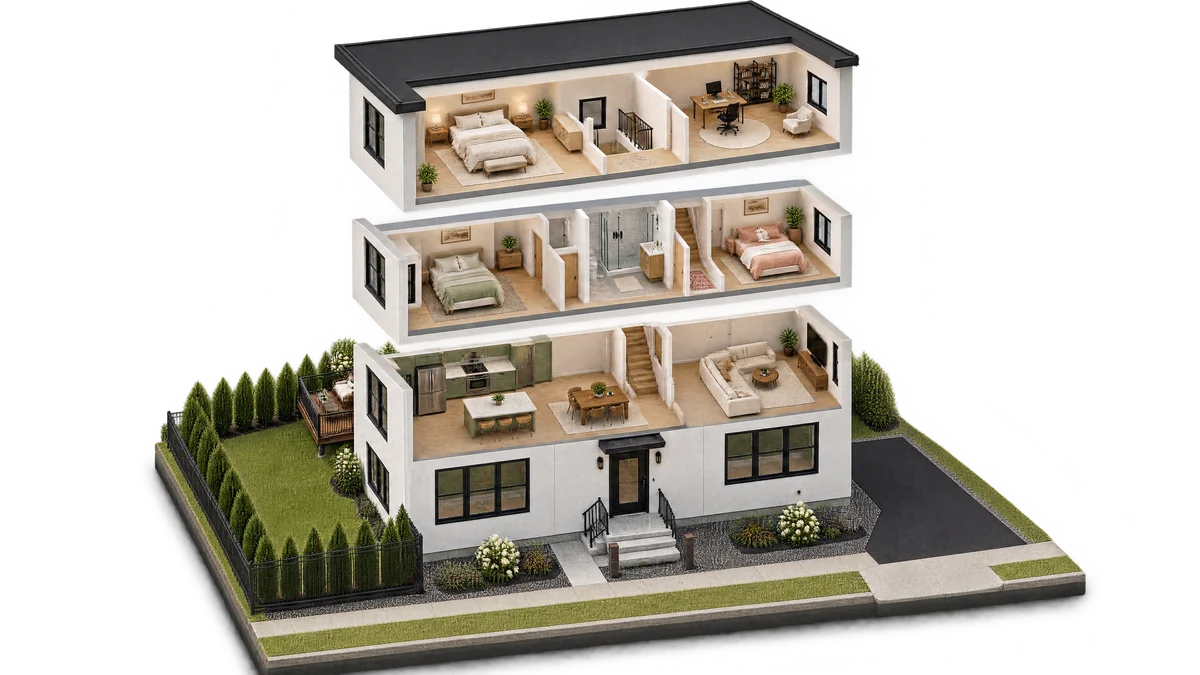
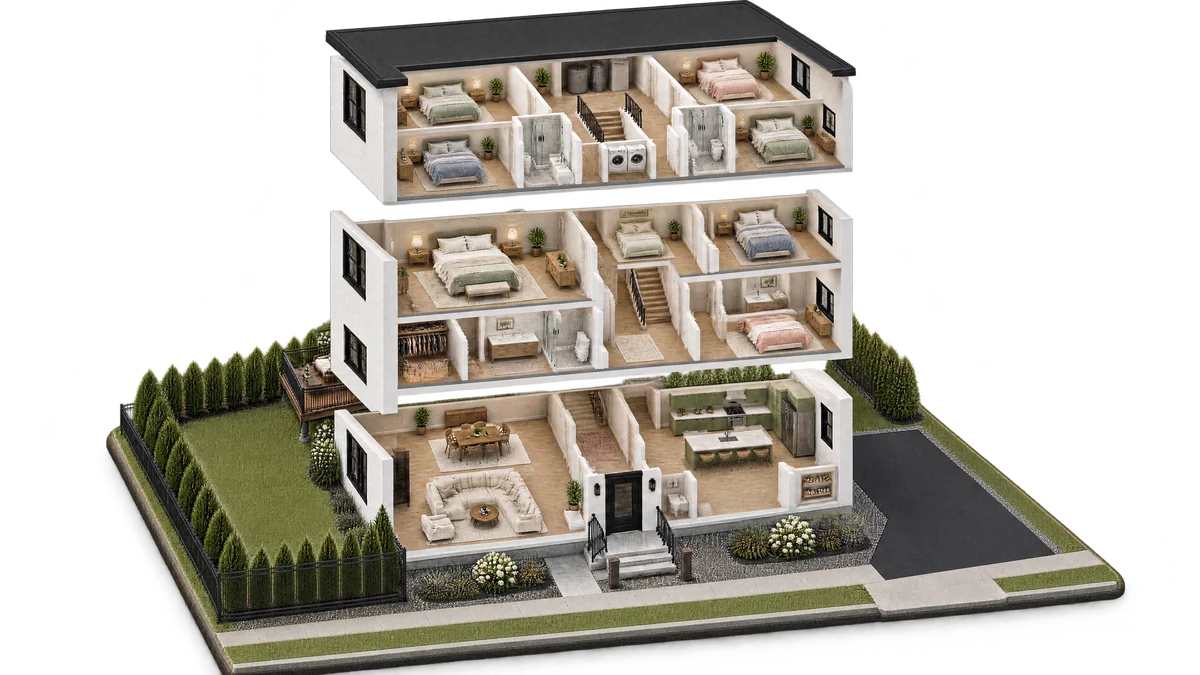
The hero model matches the filed plans room for room
Studied the architect's permit set and rebuilt the cutaway and
exploded states to it: ground floor great room, rear dining, island
kitchen, central foyer with powder room and pantry; second floor
master suite across the left wing with walk-in closet and double
vanity, three bedrooms and hall bath right; third floor four corner
bedrooms, two baths, central laundry and rear storage; flat roof
and the true facade rhythm. The closed exterior already matched and
stays. Room pins renamed and repositioned to the rooms the plans
actually draw.

diff --git a/index.html b/index.html
@@ -33,8 +33,8 @@
       href="https://fonts.googleapis.com/css2?family=Archivo:wght@600;700;800&family=Inter:wght@400;500;600;700&display=swap"
       rel="stylesheet"
     />
-    <link rel="stylesheet" href="css/site.css?v=dis2" />
-    <link rel="stylesheet" href="css/upgrade.css?v=dis2" />
+    <link rel="stylesheet" href="css/site.css?v=plan1" />
+    <link rel="stylesheet" href="css/upgrade.css?v=plan1" />
     <script type="application/ld+json">
       {
         "@context": "https://schema.org",
@@ -1053,11 +1053,11 @@
       integrity="sha256-20nQCchB9co0qIjJZRGuk2/Z9VM+kNiyxNV1lvTlZBo="
       crossorigin=""
     ></script>
-    <script src="js/hero.js?v=dis2" defer></script>
-    <script src="js/main.js?v=dis2" defer></script>
-    <script src="js/process.js?v=dis2" defer></script>
-    <script src="js/transform.js?v=dis2" defer></script>
-    <script src="js/upgrade.js?v=dis2" defer></script>
+    <script src="js/hero.js?v=plan1" defer></script>
+    <script src="js/main.js?v=plan1" defer></script>
+    <script src="js/process.js?v=plan1" defer></script>
+    <script src="js/transform.js?v=plan1" defer></script>
+    <script src="js/upgrade.js?v=plan1" defer></script>
     <script type="application/ld+json">
       {
         "@context": "https://schema.org",
@@ -1130,6 +1130,6 @@
         ]
       }
     </script>
-    <script src="js/support.js?v=dis2" defer></script>
+    <script src="js/support.js?v=plan1" defer></script>
   </body>
 </html>

diff --git a/contact.html b/contact.html
@@ -16,7 +16,7 @@
       href="https://fonts.googleapis.com/css2?family=Archivo:wght@600;700;800&family=Inter:wght@400;500;600;700&display=swap"
       rel="stylesheet"
     />
-    <link rel="stylesheet" href="css/site.css?v=dis2" />
+    <link rel="stylesheet" href="css/site.css?v=plan1" />
   </head>
   <body style="background: var(--paper)">
     <nav class="nav nav--solid" aria-label="Primary">
@@ -147,6 +147,6 @@
 
     <script src="js/quote-data.js?v=a449cf9b"></script>
     <script src="js/quote.js?v=742b7f01" defer></script>
-    <script src="js/support.js?v=dis2" defer></script>
+    <script src="js/support.js?v=plan1" defer></script>
   </body>
 </html>
